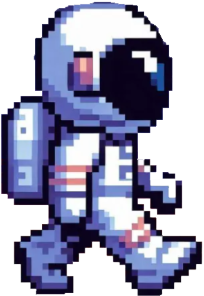
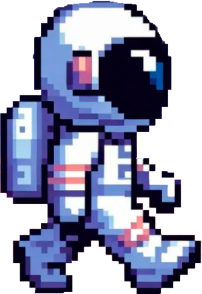
add character animation

diff --git a/styles/style.css b/styles/style.css
@@ -27,9 +27,25 @@ body {
 #astronaut {
   width: 90px;
   height: 123px;
-  background-image: url(/assets/astronaut1.png);
   background-size: cover;
   position: absolute;
+  animation-name: runningAnimation;
+  animation-iteration-count: infinite;
+  animation-duration: 0.2s;
+}
+
+#astronaut.jumping {
+  animation-duration: 1s;
+}
+
+@keyframes runningAnimation {
+  0%, 49% {
+    background-image: url(/assets/astronaut1.png);
+  }
+  
+  50%, 100% {
+    background-image: url(/assets/astronaut2.png);
+  }
 }
 
 #game {
@@ -200,4 +216,13 @@ body {
   background-image: url(/assets/Meteor1.png);
   background-size: cover;
   position: absolute;
+  animation: meteoriteAnimation 2s infinite;
+}
+
+
+
+@keyframes meteoriteAnimation {
+  50% {
+    transform: rotate(-180deg);
+  }
 }

diff --git a/scripts/player.js b/scripts/player.js
@@ -32,6 +32,7 @@ class Player {
             
             if(this.astroTop >= 289) {
                 this.isJumping = false
+                this.sprite.classList.remove('jumping')
                 this.velocityY = 0
                 this.sprite.style.top = `${this.initialTop}px`
             }
@@ -41,6 +42,8 @@ class Player {
       jump() {
           if (this.isJumping) return
           this.isJumping = true
+          this.sprite.classList.add('jumping')
+
           this.velocityY = this.jumpStrength
 
           this.jumpingSound.play()

diff --git a/scripts/game.js b/scripts/game.js
@@ -69,6 +69,9 @@ class Game {
   }
 
   gameOver() {
+    const wilhelmscream = new Audio('./assets/sounds/wilhelmscream.mp3') 
+    wilhelmscream.play()
+
     this.reStart()
     clearInterval(this.mainIntervalId)
     clearInterval(this.addObstacleIntervalId)
